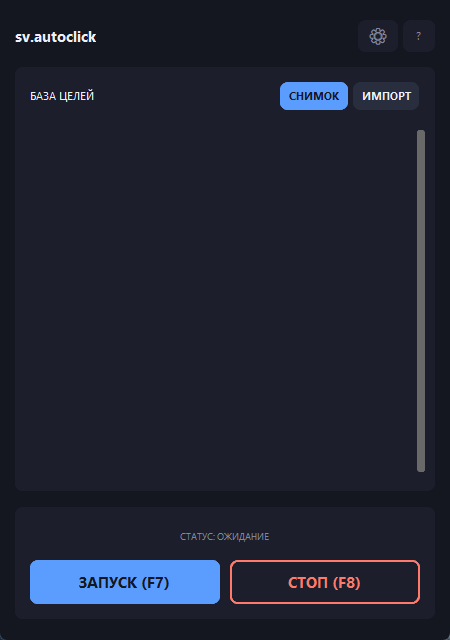
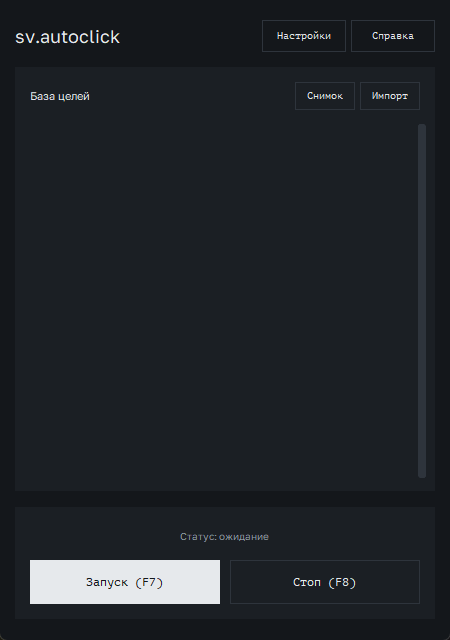
Draw the slider and switch knobs as clean squares
customtkinter 5.2 draws a knob with zero radius and zero length as two
triangles, so the sliders had hourglass thumbs and the switches a
notched wedge. The knobs get a length and a 1 px radius, the least it
draws without notches. Settings and Help sized themselves to their text
and touched their frames, so they get a fixed width; the screenshot
script now loads the bundled fonts, and the README images are retaken.

diff --git a/main.py b/main.py
@@ -26,6 +26,8 @@ DANGER = "#ff6b4a"
 TEXT_MAIN = "#e6e9ec"
 TEXT_SUB = "#8d96a0"
 CORNER_RADIUS = 0
+# customtkinter 5.2 draws a knob with square corners as a notched polygon; 1 px is the least it draws cleanly.
+KNOB_RADIUS = 1
 
 FONT_MAIN = ("Golos Text", 11)
 FONT_TITLE = ("Golos Text", 18)
@@ -333,12 +335,12 @@ class App(ctk.CTk):
         self.l_t.pack(side="left")
         self.l_t.bind("<Button-1>", self._title_click)
         
-        self.b_hz = ctk.CTkButton(h_top, text="", width=0, height=32, font=FONT_BTN,
+        self.b_hz = ctk.CTkButton(h_top, text="", width=84, height=32, font=FONT_BTN,
                                   fg_color="transparent", border_width=1, border_color=HAIRLINE, hover_color=HOVER,
                                   text_color=TEXT_MAIN, command=self.open_help, corner_radius=CORNER_RADIUS)
         self.b_hz.pack(side="right", padx=(5, 0))
         
-        self.b_cfg = ctk.CTkButton(h_top, text="", width=0, height=32, font=FONT_BTN,
+        self.b_cfg = ctk.CTkButton(h_top, text="", width=84, height=32, font=FONT_BTN,
                                    fg_color="transparent", border_width=1, border_color=HAIRLINE, hover_color=HOVER,
                                    text_color=TEXT_MAIN, command=self.open_settings, corner_radius=CORNER_RADIUS)
         self.b_cfg.pack(side="right", padx=(5, 0))
@@ -560,7 +562,7 @@ class App(ctk.CTk):
         sl_lbl = ctk.CTkLabel(c2, textvariable=sv, font=FONT_SUB, text_color=TEXT_SUB)
         sl_lbl.pack(anchor="w", padx=15, pady=5)
         sens_slider = ctk.CTkSlider(c2, from_=0.1, to=1.0, button_color=PRIMARY, button_hover_color=PRIMARY_HOVER, progress_color=PRIMARY, fg_color=HAIRLINE,
-                           corner_radius=CORNER_RADIUS, button_corner_radius=CORNER_RADIUS,  
+                           corner_radius=CORNER_RADIUS, button_corner_radius=KNOB_RADIUS, button_length=10,
                            command=lambda v: (sv.set(d["sen"].format(v=float(v))), self.cfg.set_value("sensitivity", float(v))))
         sens_slider.set(self.cfg.get("sensitivity"))
         sens_slider.pack(fill="x", padx=15, pady=(0, 10))
@@ -569,7 +571,7 @@ class App(ctk.CTk):
         c_lbl = ctk.CTkLabel(c2, textvariable=cv, font=FONT_SUB, text_color=TEXT_SUB)
         c_lbl.pack(anchor="w", padx=15, pady=5)
         c_l = ctk.CTkSlider(c2, from_=0.0, to=5.0, button_color=PRIMARY, button_hover_color=PRIMARY_HOVER, progress_color=PRIMARY, fg_color=HAIRLINE,
-                           corner_radius=CORNER_RADIUS, button_corner_radius=CORNER_RADIUS,  
+                           corner_radius=CORNER_RADIUS, button_corner_radius=KNOB_RADIUS, button_length=10,
                             command=lambda v: (cv.set(d["cd"].format(v=float(v))), self.cfg.set_value("cooldown", float(v))))
         c_l.set(self.cfg.get("cooldown"))
         c_l.pack(fill="x", padx=15, pady=(0, 15))
@@ -582,7 +584,7 @@ class App(ctk.CTk):
                       command=lambda: self.cfg.set_value("debug", dv.get()),
                       fg_color=CARD_COLOR, border_width=1, border_color=TEXT_SUB,
                       progress_color=PRIMARY, button_color=TEXT_SUB, button_hover_color=TEXT_MAIN,
-                      corner_radius=CORNER_RADIUS, button_length=0, text_color=TEXT_MAIN).pack(anchor="w", padx=15, pady=(5, 15))
+                      corner_radius=KNOB_RADIUS, button_length=12, text_color=TEXT_MAIN).pack(anchor="w", padx=15, pady=(5, 15))
         
         ctk.CTkLabel(c3, text=d["limit"], font=FONT_MAIN, text_color=TEXT_MAIN
                      ).pack(anchor="w", padx=15, pady=(0, 2))
@@ -687,7 +689,7 @@ class App(ctk.CTk):
                 cb = ctk.CTkSwitch(rf, text="", variable=cv, command=toggle_target, switch_width=36, switch_height=20,
                                    fg_color=RAISED, border_width=1, border_color=TEXT_SUB,
                                    progress_color=PRIMARY, button_color=TEXT_SUB, button_hover_color=TEXT_MAIN,
-                                   corner_radius=CORNER_RADIUS, button_length=0)
+                                   corner_radius=KNOB_RADIUS, button_length=12)
                 cb.pack(side="left", padx=(15, 5), pady=10)
                 
                 fname = os.path.basename(p)

diff --git a/docs/make_screenshots.py b/docs/make_screenshots.py
@@ -24,6 +24,7 @@ def grab(widget, name):
 
 
 def main():
+    app_module.load_fonts()
     app = app_module.App()
     app.update()
     app.attributes("-topmost", True)
